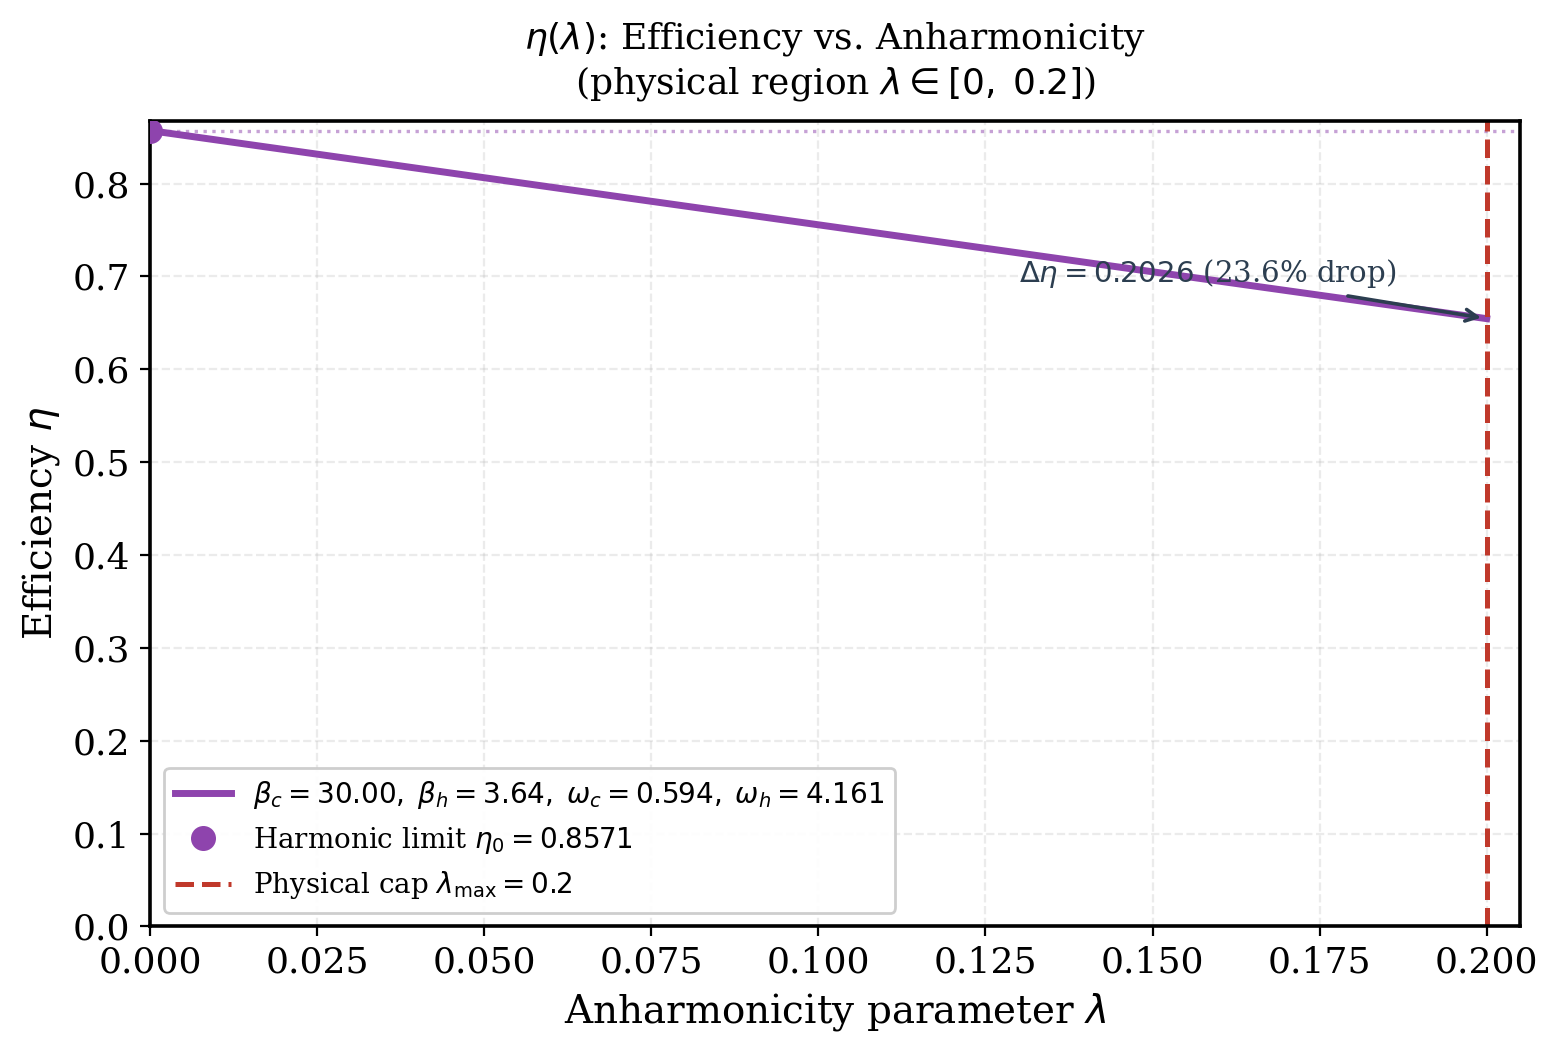
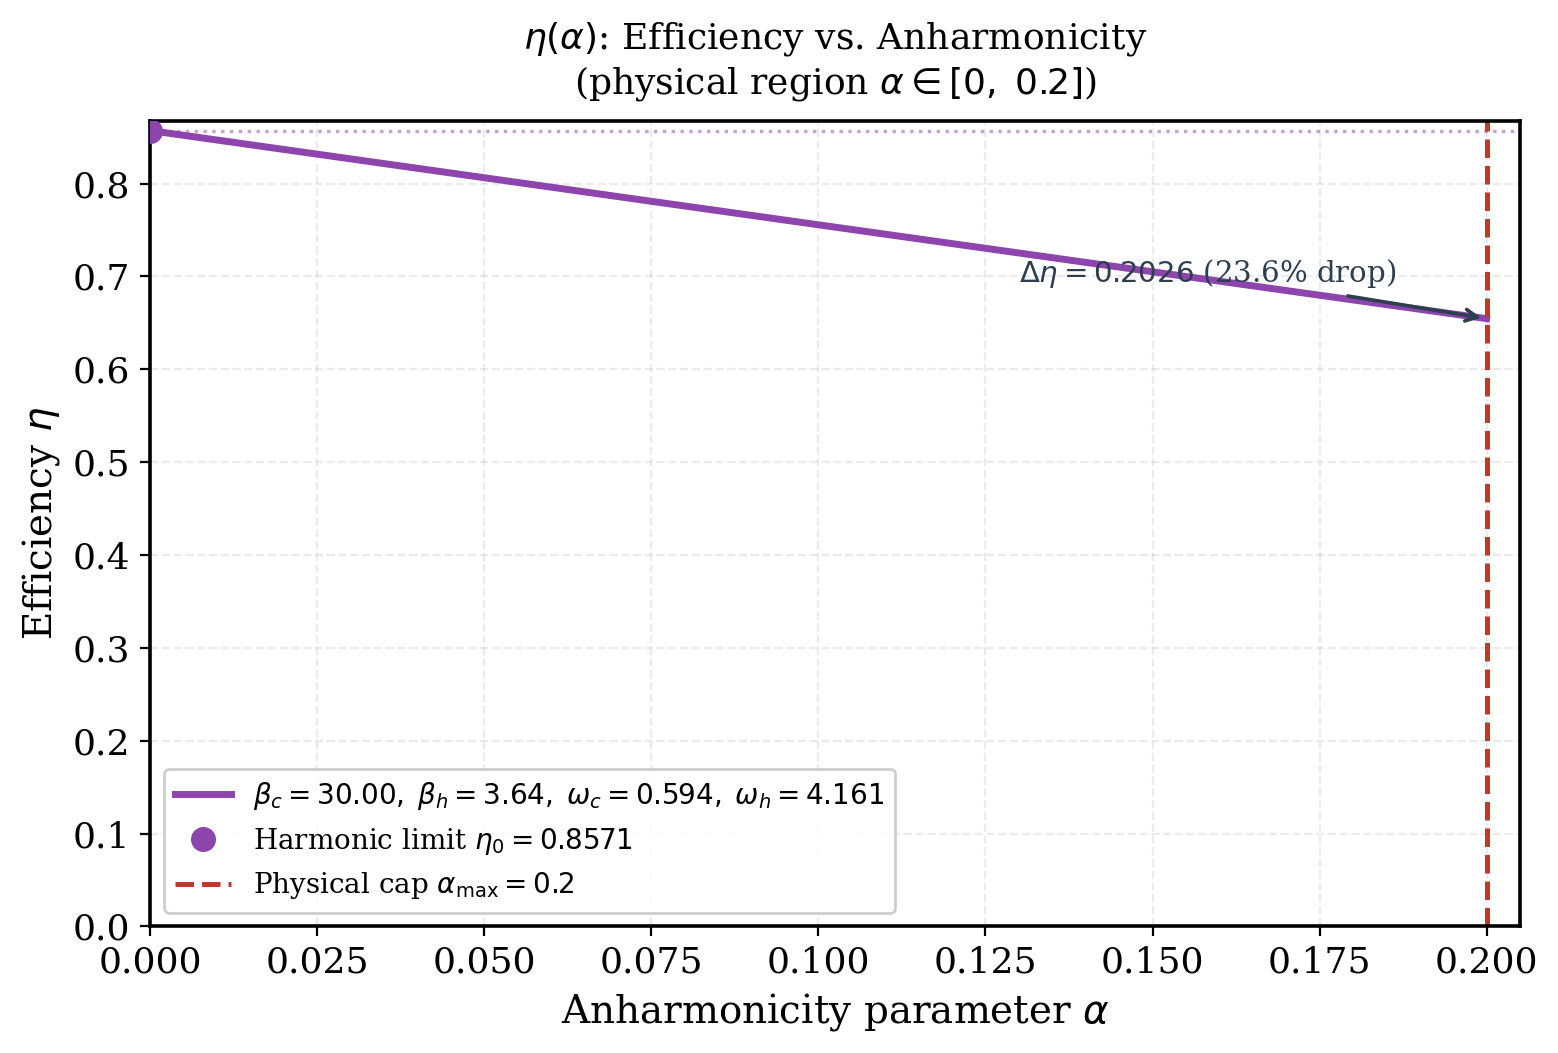
Replace lambda with alpha in all plot labels

diff --git a/codes/plot_eta_vs_lambda.py b/codes/plot_eta_vs_lambda.py
@@ -125,7 +125,7 @@ C_RED    = '#fadbd8'   # ε > 0.30  — perturbation broken
 # ─────────────────────────────────────────────────────────────────────────────
 fig, axes = plt.subplots(1, 2, figsize=(15, 6.5))
 fig.suptitle(
-    r'Efficiency $\eta(\lambda)$ and Perturbation Validity $\varepsilon(\lambda)$'
+    r'Efficiency $\eta(\alpha)$ and Perturbation Validity $\varepsilon(\alpha)$'
     '\n'
     r'(Optimal $\beta_c, \beta_h, \omega_c, \omega_h$ fixed at NV-centre optimum, '
     rf'$\eta_\mathrm{{max}}={OPT_ETA:.4f}$)',
@@ -147,15 +147,15 @@ for xl, xr, color in [
 
 # η curve (left axis)
 ax1.plot(lam_arr, eta_arr, color='#2980b9', lw=2.5, zorder=5,
-         label=r'$\eta(\lambda)$')
+         label=r'$\eta(\alpha)$')
 ax1.axhline(OPT_ETA, ls=':', color='#2980b9', lw=1.2, alpha=0.6,
             label=rf'$\eta_0 = {OPT_ETA:.4f}$ (harmonic limit)')
 
 # ε curves (right axis)
 ax1r.plot(lam_arr, ec_arr, color='#e74c3c', lw=2.0, ls='--', zorder=6,
-          label=r'$\varepsilon_\mathrm{cold}(\lambda)$')
+          label=r'$\varepsilon_\mathrm{cold}(\alpha)$')
 ax1r.plot(lam_arr, eh_arr, color='#27ae60', lw=2.0, ls='-.', zorder=6,
-          label=r'$\varepsilon_\mathrm{hot}(\lambda)$')
+          label=r'$\varepsilon_\mathrm{hot}(\alpha)$')
 
 # threshold horizontal lines on ε axis
 for thresh, ls, label in [
@@ -167,17 +167,17 @@ for thresh, ls, label in [
 
 # vertical cutoff lines
 for lam_cut, label, color in [
-    (lam_1pct,  rf'$\lambda_{{1\%}}={lam_1pct:.3f}$',  '#27ae60'),
-    (lam_10pct, rf'$\lambda_{{10\%}}={lam_10pct:.3f}$','#e67e22'),
-    (lam_30pct, rf'$\lambda_{{30\%}}={lam_30pct:.3f}$','#c0392b'),
+    (lam_1pct,  rf'$\alpha_{{1\%}}={lam_1pct:.3f}$',  '#27ae60'),
+    (lam_10pct, rf'$\alpha_{{10\%}}={lam_10pct:.3f}$','#e67e22'),
+    (lam_30pct, rf'$\alpha_{{30\%}}={lam_30pct:.3f}$','#c0392b'),
 ]:
     ax1.axvline(lam_cut, ls=':', color=color, lw=1.5, zorder=4)
     ax1.text(lam_cut + lam_max_plot*0.012, 0.01, label,
              color=color, fontsize=8.5, va='bottom', rotation=90, zorder=7)
 
-ax1.set_xlabel(r'$\lambda$ (anharmonicity)', fontsize=13)
+ax1.set_xlabel(r'$\alpha$ (anharmonicity)', fontsize=13)
 ax1.set_ylabel(r'$\eta$ (efficiency)', fontsize=13, color='#2980b9')
-ax1r.set_ylabel(r'$\varepsilon = \frac{3\lambda}{4\omega^3}\coth\!\left(\frac{\beta\omega}{2}\right)$',
+ax1r.set_ylabel(r'$\varepsilon = \frac{3\alpha}{4\omega^3}\coth\!\left(\frac{\beta\omega}{2}\right)$',
                 fontsize=12, color='#7f8c8d')
 ax1.set_xlim(0, lam_max_plot)
 ax1.set_ylim(bottom=0)
@@ -220,7 +220,7 @@ for xl, xr, color in [
     ax2.axvspan(xl, min(xr, lam_zoom.max()), alpha=0.55, color=color, zorder=0)
 
 ax2.plot(lam_zoom, compute_eta_vec(lam_zoom),
-         color='#2980b9', lw=2.5, zorder=5, label=r'$\eta(\lambda)$')
+         color='#2980b9', lw=2.5, zorder=5, label=r'$\eta(\alpha)$')
 ax2.axhline(OPT_ETA, ls=':', color='#2980b9', lw=1.2, alpha=0.6)
 
 ax2r.plot(lam_zoom, eps_cold(lam_zoom), color='#e74c3c', lw=2.0, ls='--',
@@ -232,16 +232,16 @@ for thresh, ls in [(0.01, ':'), (0.10, '--'), (0.30, '-')]:
     ax2r.axhline(thresh, ls=ls, color='gray', lw=1.3, alpha=0.8)
 
 for lam_cut, label, color in [
-    (lam_1pct,  rf'$\lambda_{{1\%}}={lam_1pct:.3f}$',  '#27ae60'),
-    (lam_10pct, rf'$\lambda_{{10\%}}={lam_10pct:.3f}$','#e67e22'),
+    (lam_1pct,  rf'$\alpha_{{1\%}}={lam_1pct:.3f}$',  '#27ae60'),
+    (lam_10pct, rf'$\alpha_{{10\%}}={lam_10pct:.3f}$','#e67e22'),
 ]:
     ax2.axvline(lam_cut, ls=':', color=color, lw=1.5)
     ax2.text(lam_cut + lam_zoom.max()*0.015, 0.005, label,
              color=color, fontsize=8.5, va='bottom', rotation=90)
 
-ax2.set_xlabel(r'$\lambda$ (anharmonicity)', fontsize=13)
+ax2.set_xlabel(r'$\alpha$ (anharmonicity)', fontsize=13)
 ax2.set_ylabel(r'$\eta$ (efficiency)', fontsize=13, color='#2980b9')
-ax2r.set_ylabel(r'$\varepsilon(\lambda)$', fontsize=12, color='#7f8c8d')
+ax2r.set_ylabel(r'$\varepsilon(\alpha)$', fontsize=12, color='#7f8c8d')
 ax2.set_xlim(0, lam_zoom.max())
 ax2.set_ylim(bottom=0)
 ax2r.set_ylim(bottom=0)

diff --git a/codes/plot_extra_figs.py b/codes/plot_extra_figs.py
@@ -106,11 +106,11 @@ fig.suptitle(r'Work–Efficiency Tradeoff in Feasible Space'
 # Panel 1: η vs W_ext, coloured by λ
 ax = axes[0]
 sc = ax.scatter(works, etas, c=lams, cmap='viridis', s=4, alpha=0.4, vmin=0, vmax=LAM_MAX)
-plt.colorbar(sc, ax=ax, label=r'$\lambda$ (anharmonicity)')
+plt.colorbar(sc, ax=ax, label=r'$\alpha$ (anharmonicity)')
 ax.axhline(THRESHOLD, ls='--', color='red', lw=1.5, label=f'η threshold = {THRESHOLD}')
 ax.set_xlabel(r'$W_\mathrm{ext}$ (extracted work, arb. units)', fontsize=12)
 ax.set_ylabel(r'$\eta$ (efficiency)', fontsize=12)
-ax.set_title(r'$\eta$ vs $W_\mathrm{ext}$, coloured by $\lambda$', fontsize=11)
+ax.set_title(r'$\eta$ vs $W_\mathrm{ext}$, coloured by $\alpha$', fontsize=11)
 ax.legend(fontsize=9); ax.grid(alpha=0.3)
 
 # Panel 2: Zoomed — top η>0.75 samples, coloured by ωh/ωc ratio usage
@@ -242,9 +242,9 @@ plt.colorbar(sc, ax=ax2, label=r'$\eta$')
 ax2.axhline(0.10, ls='--', color='red', lw=2, label=r'$\delta = 0.10$ threshold')
 ax2.axvline(LAM_MAX, ls=':', color='purple', lw=1.5,
             label=f'λ cap = {LAM_MAX}')
-ax2.set_xlabel(r'$\lambda$ (anharmonicity parameter)', fontsize=12)
+ax2.set_xlabel(r'$\alpha$ (anharmonicity parameter)', fontsize=12)
 ax2.set_ylabel(r'$\delta$ (perturbation ratio)', fontsize=12)
-ax2.set_title(r'$\delta$ vs $\lambda$ coloured by $\eta$', fontsize=11)
+ax2.set_title(r'$\delta$ vs $\alpha$ coloured by $\eta$', fontsize=11)
 ax2.legend(fontsize=9); ax2.grid(alpha=0.35)
 
 plt.tight_layout()

diff --git a/codes/eta_vs_lambda_physical.py b/codes/eta_vs_lambda_physical.py
@@ -69,7 +69,7 @@ ax.axhline(eta0_harmonic, ls=':', color='#8e44ad', lw=1.2, alpha=0.5)
 
 # ── Physical cap ──────────────────────────────────────────────────────────────
 ax.axvline(0.2, color='#c0392b', lw=1.8, ls='--',
-           label=r'Physical cap $\lambda_\mathrm{max}=0.2$')
+           label=r'Physical cap $\alpha_\mathrm{max}=0.2$')
 
 # ── Annotate η drop ───────────────────────────────────────────────────────────
 eta_at_02 = float(eta_vs_lam(bc, bh, wc, wh, np.array([0.2]))[0])
@@ -82,12 +82,12 @@ ax.annotate(
 )
 
 # ── Labels ────────────────────────────────────────────────────────────────────
-ax.set_xlabel(r'Anharmonicity parameter $\lambda$', fontsize=14)
+ax.set_xlabel(r'Anharmonicity parameter $\alpha$', fontsize=14)
 ax.set_ylabel(r'Efficiency $\eta$', fontsize=14)
 ax.set_title(
-    r'$\eta(\lambda)$: Efficiency vs. Anharmonicity'
+    r'$\eta(\alpha)$: Efficiency vs. Anharmonicity'
     '\n'
-    r'(physical region $\lambda \in [0,\;0.2]$)',
+    r'(physical region $\alpha \in [0,\;0.2]$)',
     fontsize=13, pad=10
 )
 ax.set_xlim(0.0, 0.205)

diff --git a/codes/run_cpc_benchmark.py b/codes/run_cpc_benchmark.py
@@ -279,10 +279,10 @@ pts = np.array(pts); bc,bh,wc,wh,lam,et = pts.T
 
 fig, axes = plt.subplots(1,3,figsize=(15,5))
 fig.suptitle(f'Feasible Parameter Space (Constrained Domain)\n'
-             rf'$\omega_h/\omega_c \leq {R_OMEGA}$,  $\beta_c/\beta_h \leq {R_BETA}$,  $\lambda \leq {LAM_MAX}$',fontsize=12)
+             rf'$\omega_h/\omega_c \leq {R_OMEGA}$,  $\beta_c/\beta_h \leq {R_BETA}$,  $\alpha \leq {LAM_MAX}$',fontsize=12)
 for ax, (x,y,xl,yl) in zip(axes,[(wh/wc,et,r'$\omega_h/\omega_c$',r'$\eta$'),
                                    (bc/bh,et,r'$\beta_c/\beta_h$', r'$\eta$'),
-                                   (lam,  et,r'$\lambda$',         r'$\eta$')]):
+                                   (lam,  et,r'$\alpha$',         r'$\eta$')]):
     sc=ax.scatter(x,y,c=et,cmap='plasma',s=6,alpha=0.5,vmin=0,vmax=1)
     ax.set_xlabel(xl,fontsize=12); ax.set_ylabel(yl,fontsize=12); ax.grid(alpha=0.3)
     plt.colorbar(sc,ax=ax,label='η')

diff --git a/codes/find_optimal_parameters.py b/codes/find_optimal_parameters.py
@@ -170,7 +170,7 @@ ax.tick_params(axis='x', labelsize=8)
 
 # Panel 2: optimal parameter radar-style bar chart
 ax2 = axes[1]
-param_names = [r'$\beta_c$', r'$\beta_h$', r'$\omega_c$', r'$\omega_h$', r'$\lambda$']
+param_names = [r'$\beta_c$', r'$\beta_h$', r'$\omega_c$', r'$\omega_h$', r'$\alpha$']
 x   = np.arange(len(param_names))
 w   = 0.18
 for i, (name, cfg) in enumerate(PLATFORMS.items()):
